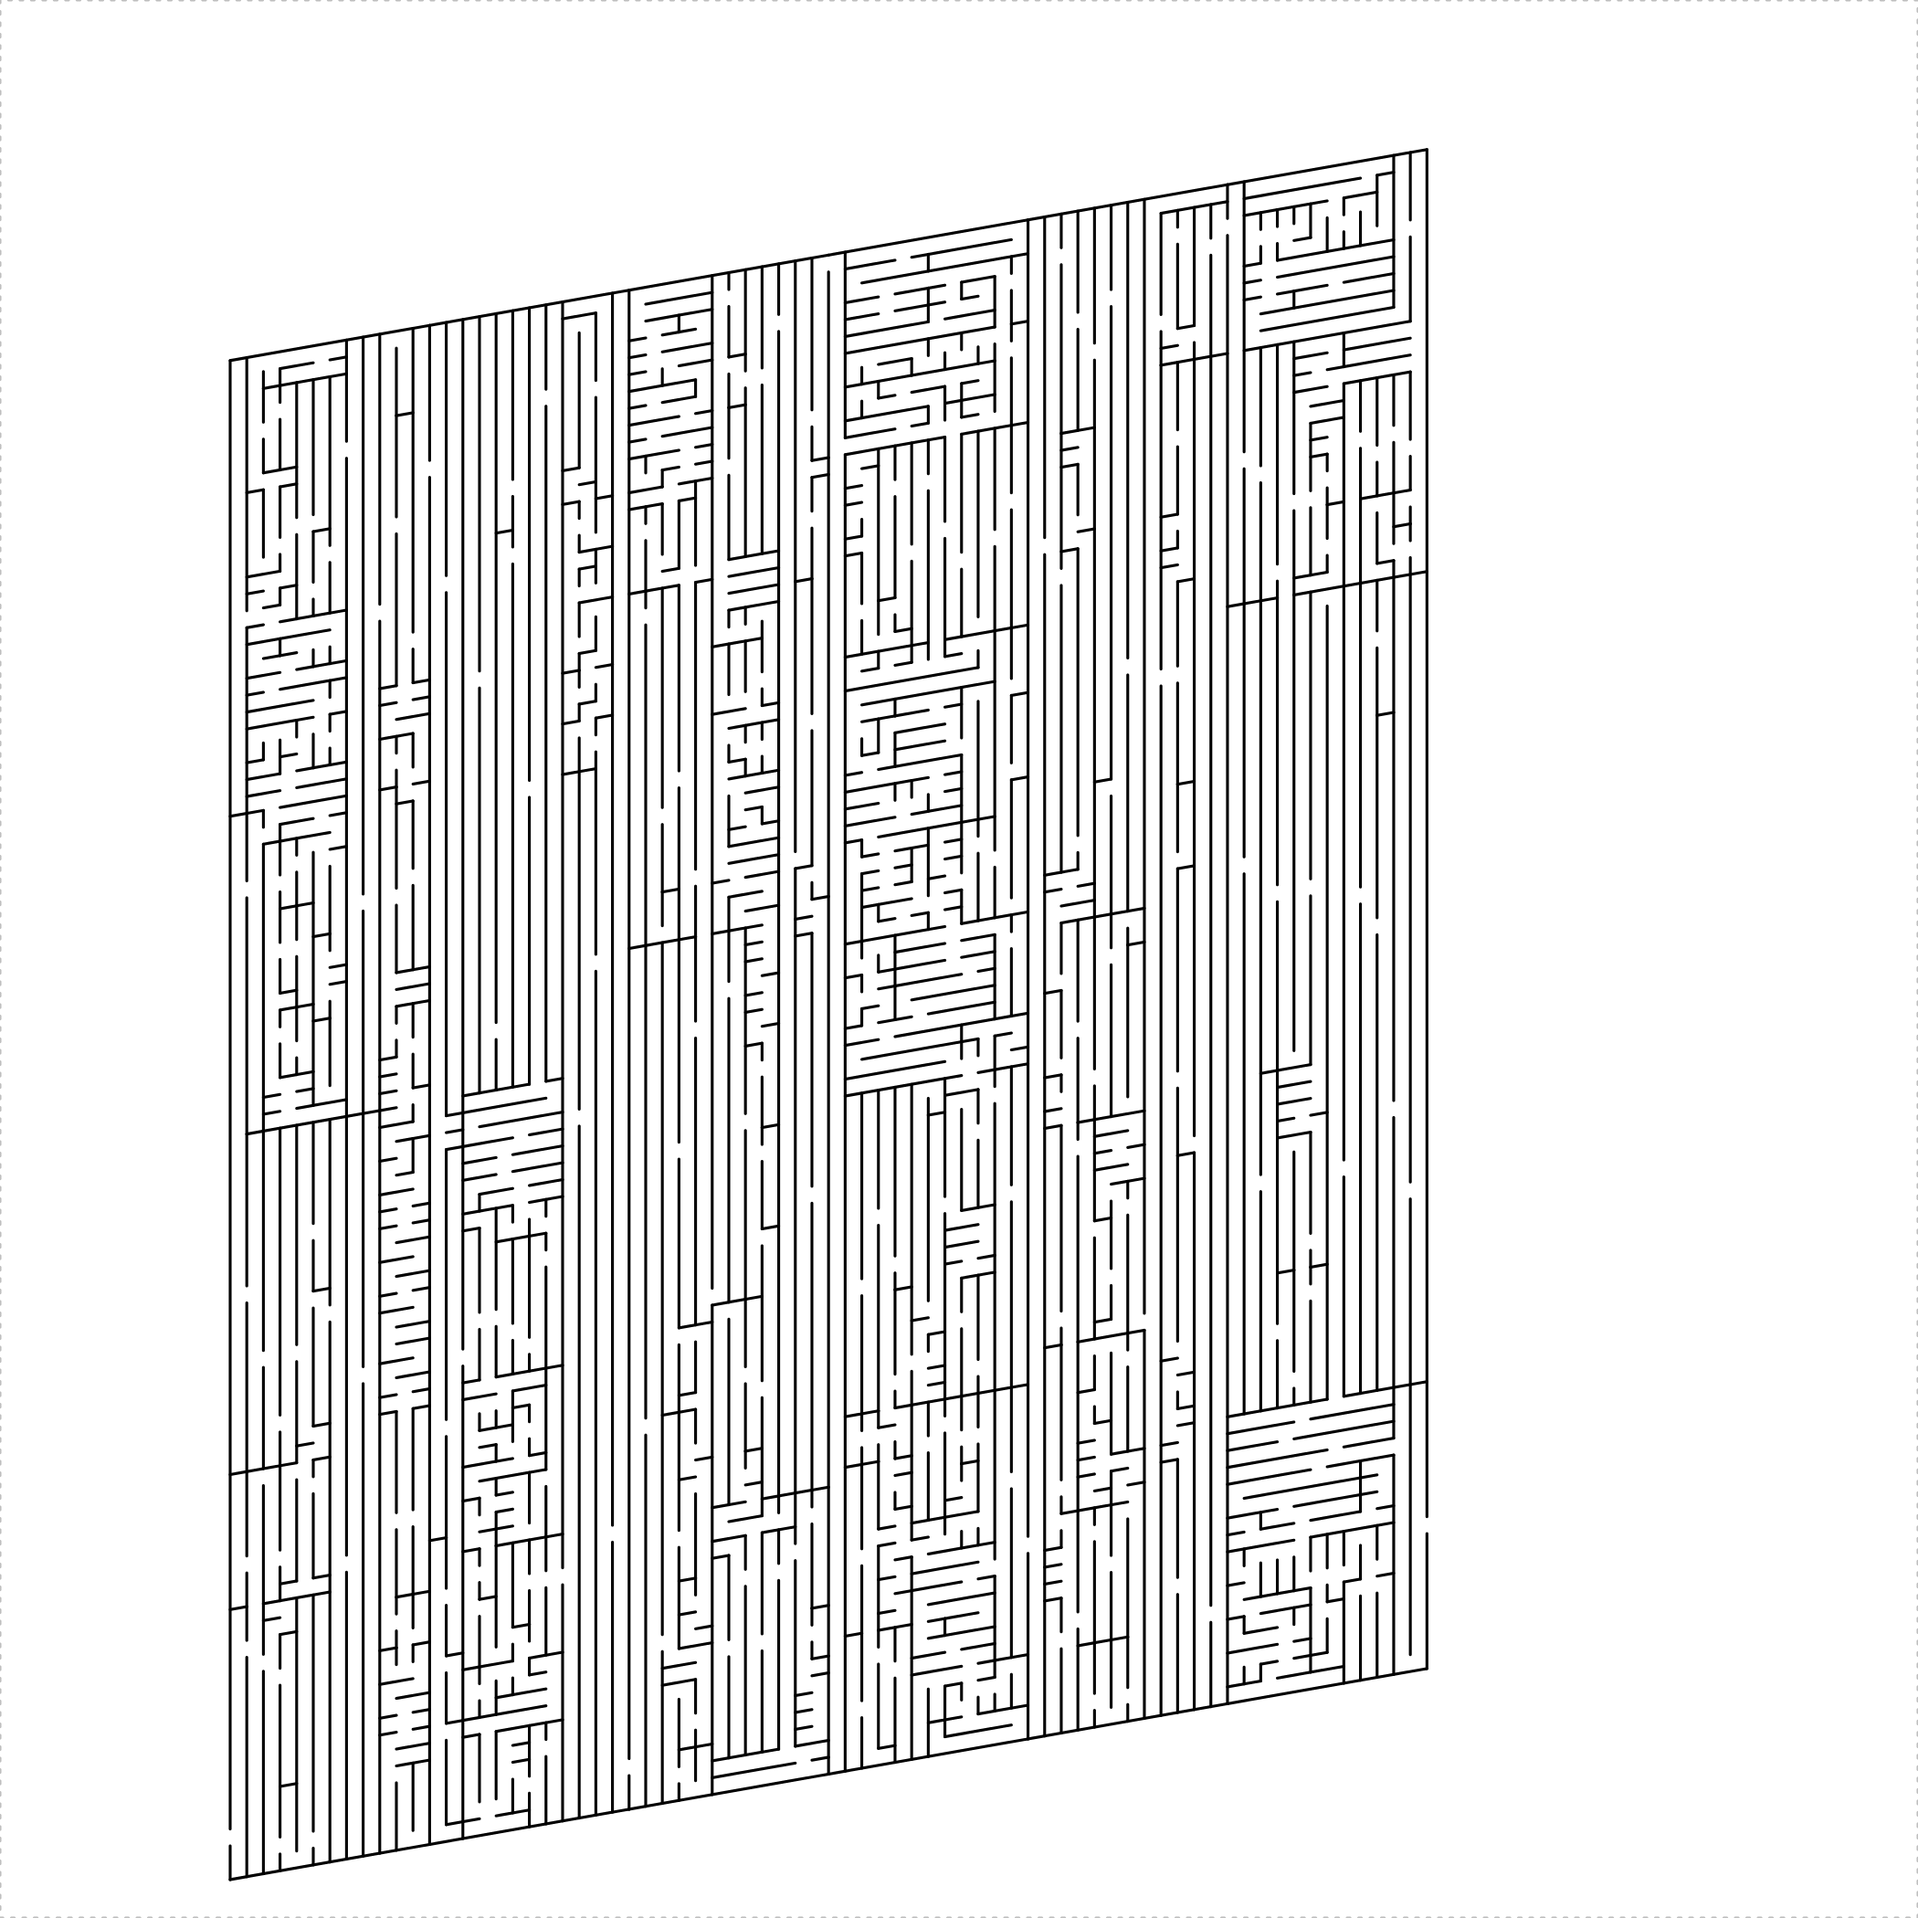
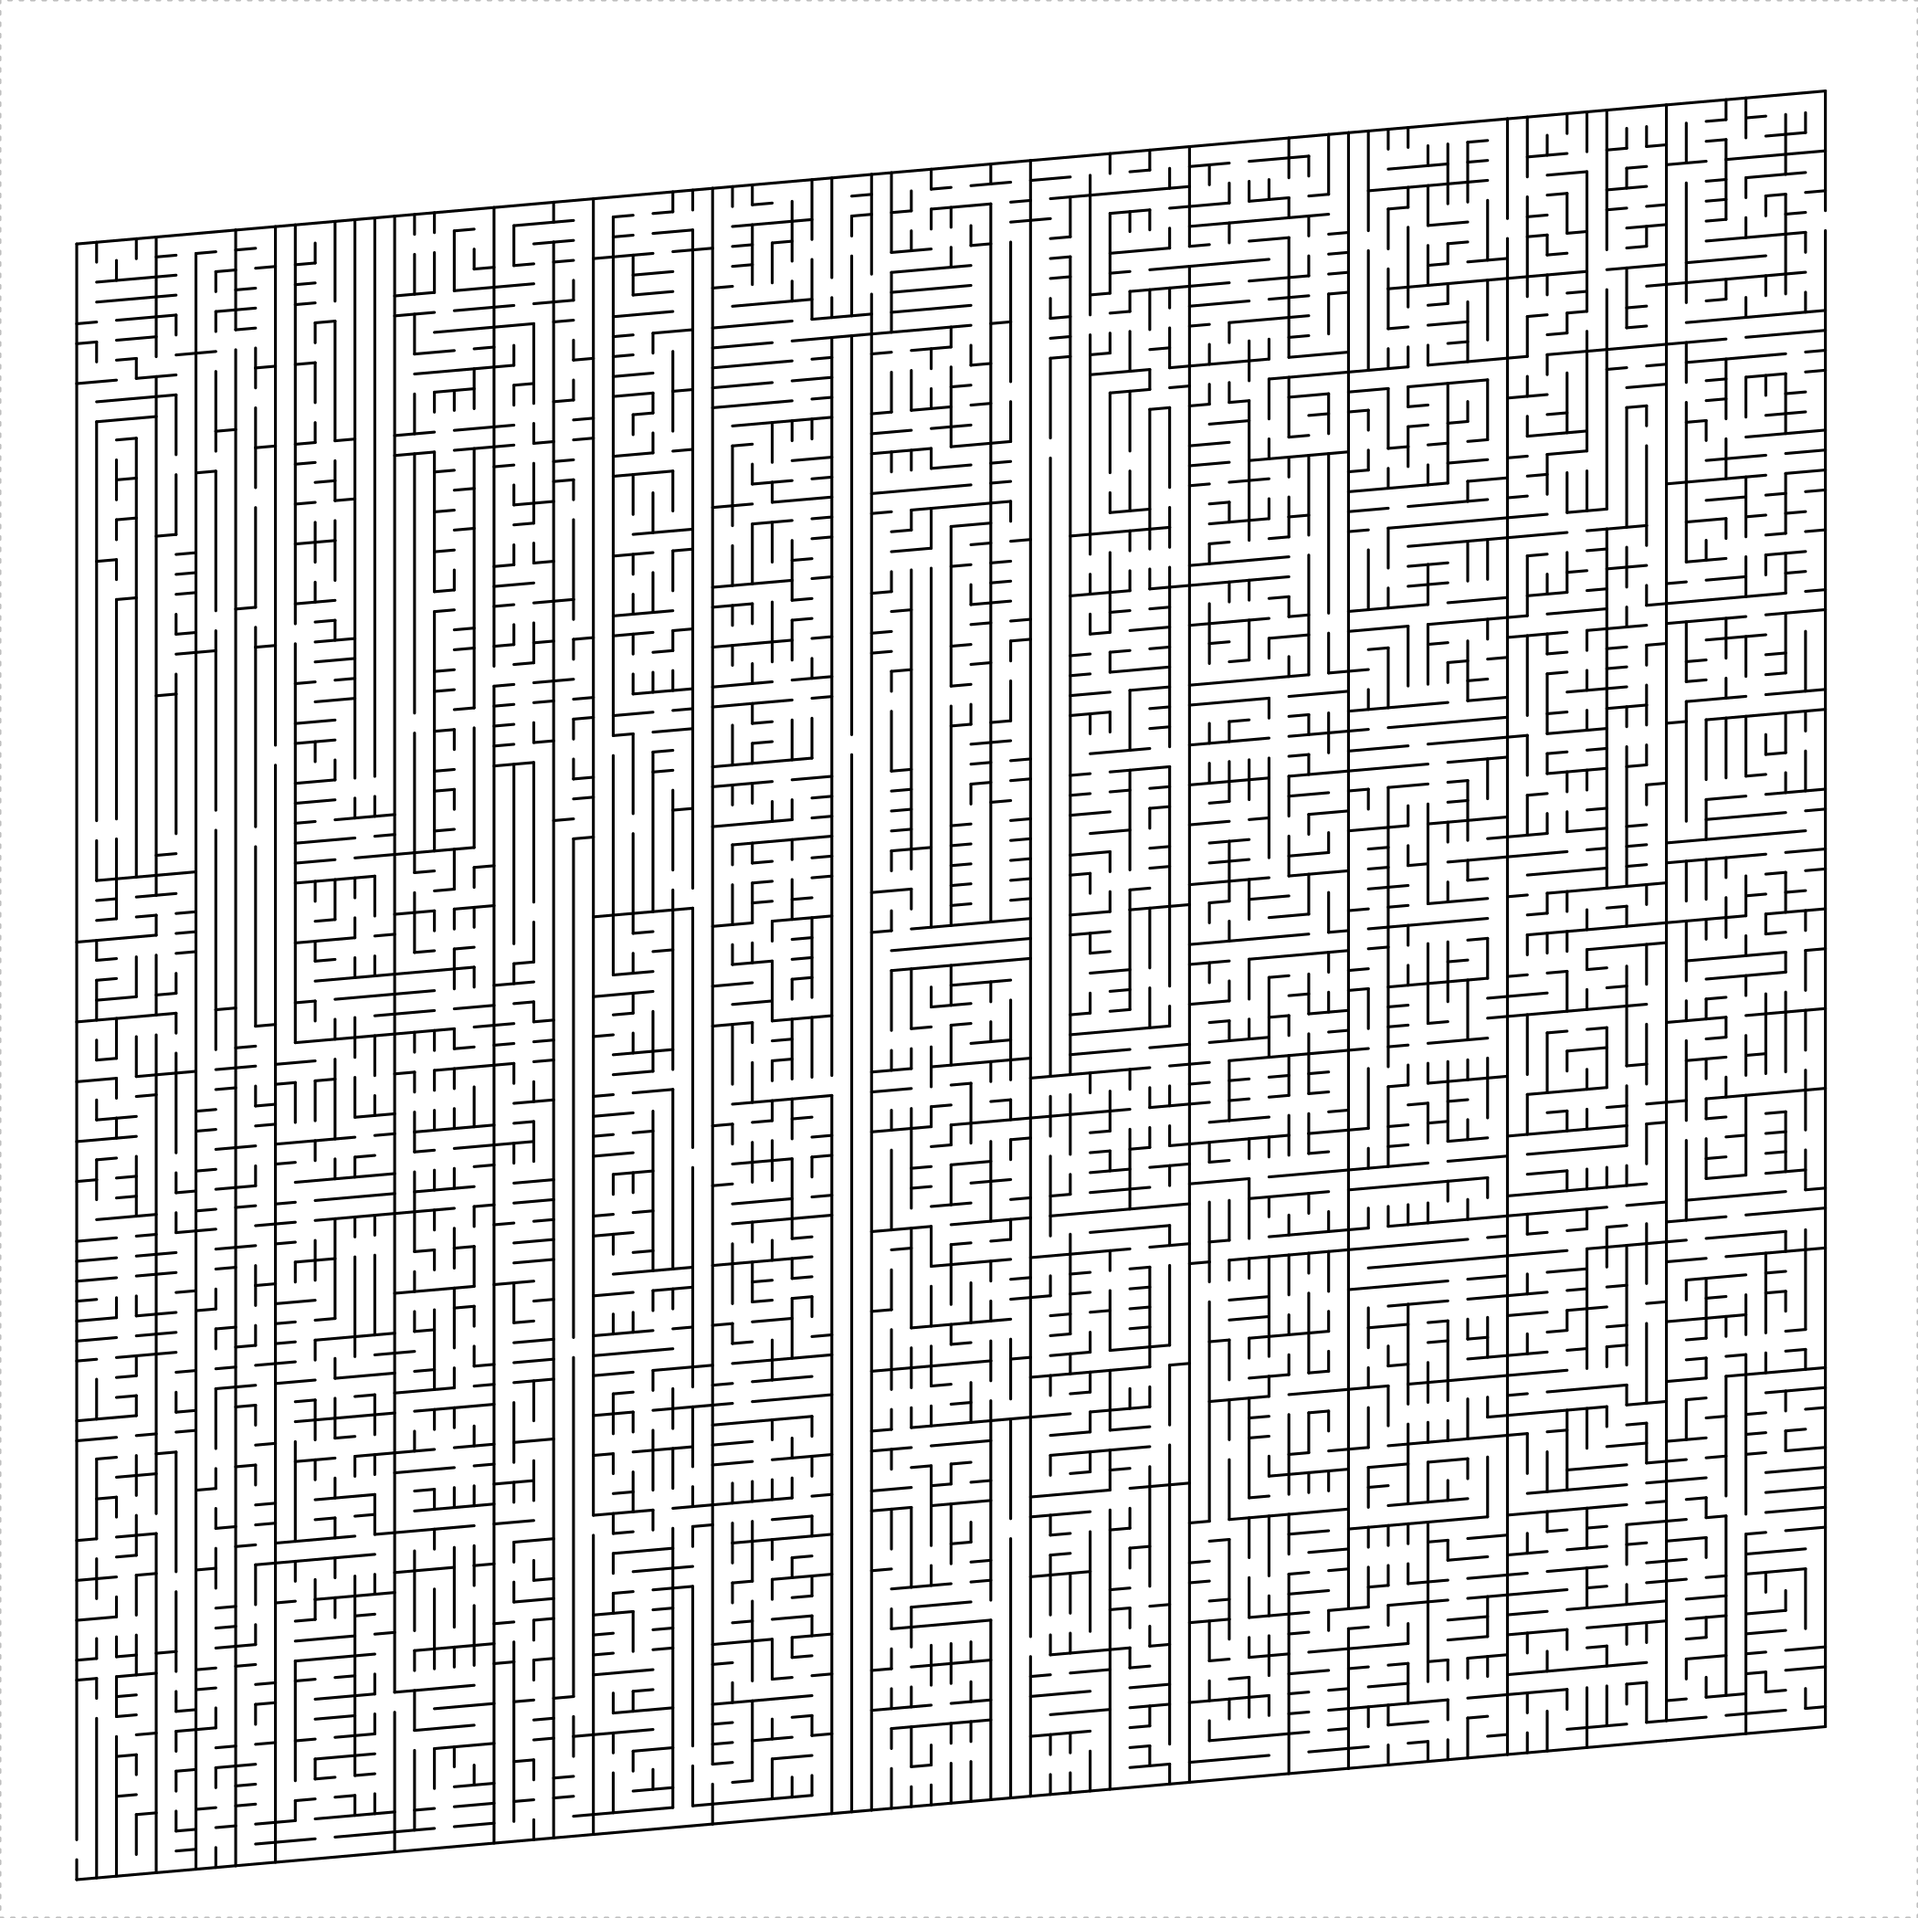
making boustrophedon more balanced

Changed region(s): [[0.031, 0.031, 0.9595, 0.9905]]

diff --git a/README.md b/README.md
@@ -825,7 +825,8 @@ turtle_do({
 
 ```r
 boustro <- function(unit_len, height, width, thickness = 8L, 
-    angle = 90, clockwise = TRUE, start_hole = TRUE) {
+    angle = 90, clockwise = TRUE, start_hole = TRUE, 
+    balance = 0) {
     if (start_hole) {
         bholes <- c(1, 3)
         blines <- 1:4
@@ -838,14 +839,16 @@ boustro <- function(unit_len, height, width, thickness = 8L,
     blocs <- sample.int(n = thickness, size = 4, replace = TRUE)
     
     parallelogram_maze(unit_len = unit_len, height = height, 
-        width = thickness, angle = angle, start_from = "corner", 
-        clockwise = clockwise, draw_boundary = TRUE, 
-        boundary_lines = blines, boundary_holes = bholes, 
-        boundary_hole_locations = blocs, end_side = 3)
+        width = thickness, angle = angle, balance = balance, 
+        start_from = "corner", clockwise = clockwise, 
+        draw_boundary = TRUE, boundary_lines = blines, 
+        boundary_holes = bholes, boundary_hole_locations = blocs, 
+        end_side = 3)
     if (!last_one) {
         boustro(unit_len, height = height, width = width - 
             thickness, thickness = thickness, angle = 180 - 
-            angle, clockwise = !clockwise, start_hole = FALSE)
+            angle, clockwise = !clockwise, start_hole = FALSE, 
+            balance = balance)
     }
 }
 
@@ -853,10 +856,10 @@ turtle_init(2500, 2500, mode = "clip")
 turtle_up()
 turtle_hide()
 turtle_do({
-    turtle_setpos(300, 50)
+    turtle_setpos(100, 50)
     turtle_setangle(0)
-    boustro(unit_len = 22, 90, 70, thickness = 12, 
-        angle = 80)
+    boustro(unit_len = 26, height = 82, width = 80, 
+        thickness = 8, angle = 85, balance = 1.5)
 })
 ```
 
